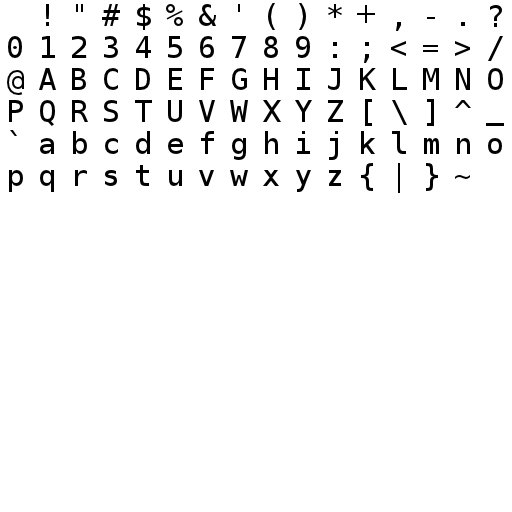
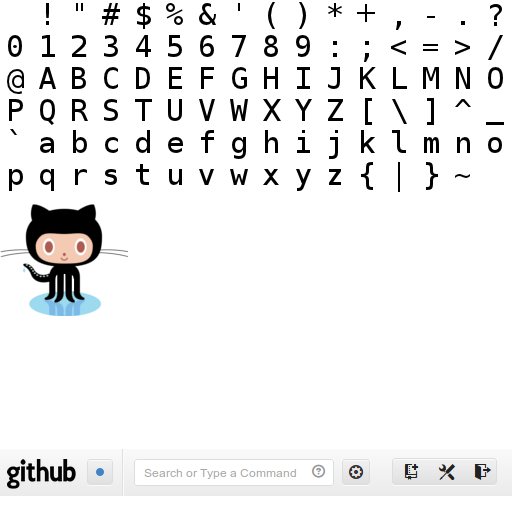
Octocat and top sprite

diff --git a/js/drawables.js b/js/drawables.js
@@ -2,8 +2,8 @@ Object = function(){
 	var object = new Square();
 	object.color = [1,0,0,1];
 	object.size  = [0.1,0.1,0];
-	object.position = [Math.random()*game.bg.size[0]*2-game.bg.size[0], -1*game.bg.size[1], Math.random()/100];
-	object.collissionModifier = 0.5;
+	object.position = [Math.random()*game.bg.size[0]*2-game.bg.size[0]-object.size[0], -1*game.bg.size[1], Math.random()/100];
+	object.collissionModifier = 1;
 	
 	return {
 		velocity : [0,Math.random(),0],
@@ -36,17 +36,18 @@ Object = function(){
 
 Player = function(){
 	var player = new Square();
-	player.color = [1,1,0,1];
-	player.size  = [0.1, 0.2, 1];
+	player.color = [0,0,0,1];
+	player.size  = [0.2, 0.2, 1];
+	player.position = [0, 0.9, 0];
 	player.texture.enabled = true;
-	player.texture.sprite = [4,2];
-	player.texture.size = [2,3];
+	player.texture.sprite = [0,6];
+	player.texture.size = [4,4];
 	return {
 		speed : [0,0,0],
 		direction : [0,0,0],
 		position : player.position,
 		size : player.size,
-		collissionModifier : 0.4,
+		collissionModifier : 0.6,
 		tick : function(theta){
 			this.speed[0] += theta*2;
 			this.speed[1] += theta*2;
@@ -79,9 +80,17 @@ Player = function(){
 Background = function(){
 	
 	var bg = new Square();
-	bg.size = [1.72, 1.40, 1];
-	bg.color = [0.2, 0.2, 0.2, 1.0];
+	bg.size = [1.6, 1.4, 1];
+	bg.color = [1, 1, 1, 1.0];
 	bg.position = [0,0,0.01];
+	
+	var top = new Square();
+	top.size = [1.65, 1.65/8, 1];
+	top.color = [0,0,0,1.0];
+	top.position = [0, 1.30, 0.000];
+	top.texture.enabled = true;
+	top.texture.sprite = [0,14];
+	top.texture.size = [16,2];
 	
 	return{
 		size : bg.size,
@@ -90,6 +99,7 @@ Background = function(){
 		},
 		draw : function(gl){
 			bg.draw(gl);
+			top.draw(gl);
 		}
 	};
 };

diff --git a/js/game.js b/js/game.js
@@ -4,7 +4,7 @@ var game = {
 		this.bg = Background();
 		this.player = Player();
 		this.objects = [];
-		for(var i=0; i < 50; i++){
+		for(var i=0; i < 25; i++){
 			this.objects.push(Object());
 		}
 		this.smooth = 0;
@@ -53,7 +53,7 @@ var game = {
         
         var ratio = Main.WIDTH / Main.HEIGHT;
         var model_projection = mat4.lookAt([0,0,-3], [0,0,0], [0,1,0]);
-        var model_view_projection = mat4.frustum(-ratio, ratio, -1, 1, 2, 7);
+        var model_view_projection = mat4.frustum(-ratio, ratio, -1, 1, 2, 6);
         model_projection = mat4.rotate(model_projection, this.smooth*-0.1, [0,1,0]);
         var projection = mat4.multiply(model_view_projection, model_projection);
         
@@ -63,7 +63,7 @@ var game = {
         
         // DRAW SQUARE:
         
-        this.bg.draw(gl);
+        
 
        
         this.objects.sort(function(a,b){
@@ -73,6 +73,7 @@ var game = {
         	this.objects[i].draw(gl);
         }
         this.player.draw(gl);
+        this.bg.draw(gl);
 //        // Draw actual stuff:
 //        bg.bgSquare.z = 0.1f;
 //         bg.draw(gl);
